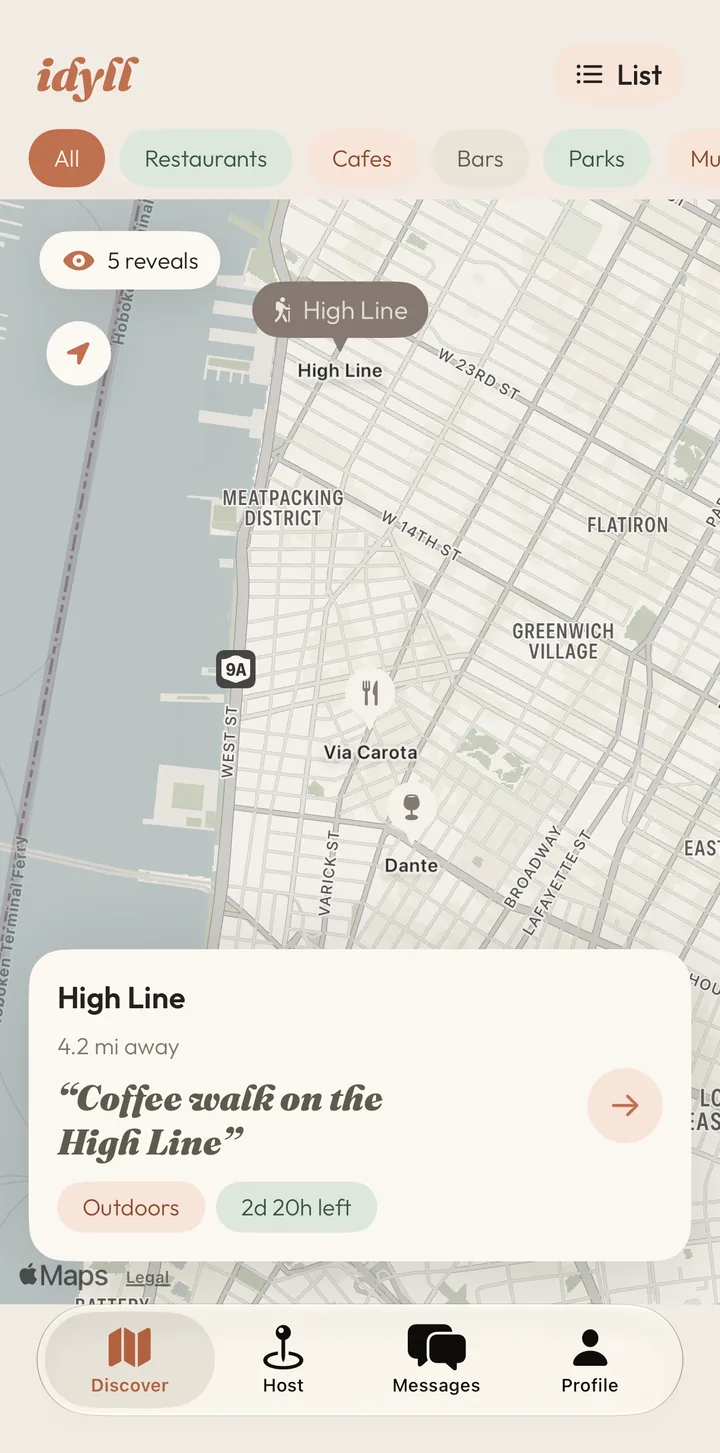
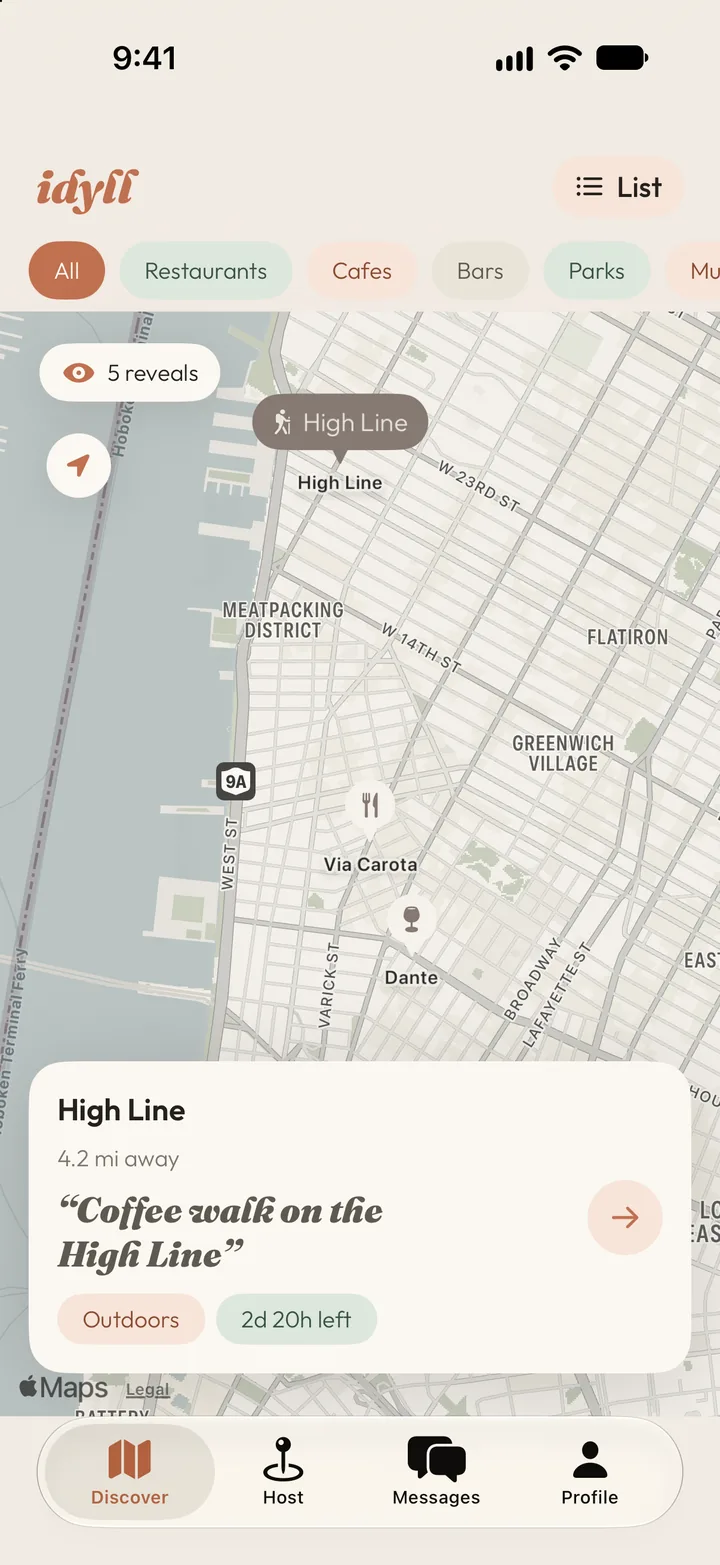
Text or Email sign-up, full screenshots, cleaner headline, no step numbers

diff --git a/index.html b/index.html
@@ -16,7 +16,8 @@
 html{-webkit-text-size-adjust:100%}
 body{margin:0;background:var(--ground);color:var(--ink);font-family:var(--ui);font-size:17px;line-height:1.55;-webkit-font-smoothing:antialiased}
 .wrap{max-width:1080px;margin:0 auto;padding-left:max(20px,env(safe-area-inset-left,0px));padding-right:max(20px,env(safe-area-inset-right,0px))}
-h1,h2,h3{text-wrap:balance;margin:0}
+h1,h2,h3{text-wrap:balance;margin:0;font-variant-ligatures:none}
+.hero h1,.sec h2,.again h2{font-variation-settings:'opsz' 48}
 p{margin:0}
 .eyebrow{font-size:13px;letter-spacing:.12em;text-transform:uppercase;color:var(--ink-body);font-weight:500}
 
@@ -34,23 +35,29 @@ p{margin:0}
 form.capture{margin-top:28px;display:flex;flex-direction:column;gap:14px;max-width:460px}
 .field{display:flex;flex-direction:column;gap:6px}
 .field-label{font-size:14px;font-weight:500;color:var(--ink-body);padding-left:20px}
-form.capture input[type=email]{width:100%;font:inherit;font-size:16px;height:54px;padding:0 20px;border-radius:999px;border:1.5px solid var(--hair);background:var(--card);color:var(--ink);transition:border-color .15s,box-shadow .15s}
-form.capture input[type=email]::placeholder{color:#8A847A}
-form.capture input[type=email]:focus{outline:none;border-color:var(--accent-strong);box-shadow:0 0 0 4px var(--accent-soft)}
+form.capture input[type=email],form.capture input[type=tel]{width:100%;font:inherit;font-size:16px;height:54px;padding:0 20px;border-radius:999px;border:1.5px solid var(--hair);background:var(--card);color:var(--ink);transition:border-color .15s,box-shadow .15s}
+form.capture input::placeholder{color:#7A7369}
+form.capture input[type=email]:focus,form.capture input[type=tel]:focus{outline:none;border-color:var(--accent-strong);box-shadow:0 0 0 4px var(--accent-soft)}
 form.capture input[aria-invalid=true]{border-color:var(--error)}
 
 .opts{border:0;margin:0;padding:0;min-width:0}
 .opts legend{font-size:14px;font-weight:500;color:var(--ink-body);padding:0 0 6px 20px}
 .opts-row{display:flex;gap:8px}
 .opt{position:relative;flex:1}
-.opt:last-child{flex:1.3}
+.gender .opt:last-child{flex:1.3}
 .opt input{position:absolute;opacity:0;width:1px;height:1px}
 .opt span{display:flex;align-items:center;justify-content:center;height:46px;border-radius:999px;border:1.5px solid var(--hair);background:var(--card);color:var(--ink);font-size:15px;cursor:pointer;user-select:none;transition:background .15s,border-color .15s,color .15s,transform .12s}
 .opt span:active{transform:scale(.97)}
 .opt input:checked+span{background:var(--accent-strong);border-color:var(--accent-strong);color:#fff}
 .opt input:focus-visible+span{box-shadow:0 0 0 4px var(--accent-soft)}
-.js form.capture .opts{display:none}
-.js form.capture.engaged .opts{display:block;animation:fadein .25s ease both}
+.js form.capture .opts.gender{display:none}
+.js form.capture.engaged .opts.gender{display:block;animation:fadein .25s ease both}
+.panel{display:flex;flex-direction:column;gap:12px}
+.panel[hidden]{display:none}
+.hint{font-size:14px;color:var(--ink-body);padding-left:20px}
+.sms{display:flex;gap:12px;align-items:flex-start;font-size:14px;line-height:1.5;color:var(--ink-body);padding-left:4px;cursor:pointer}
+.sms input{width:22px;height:22px;margin:1px 0 0;accent-color:var(--accent-strong);flex:none}
+.sms a{color:var(--accent-text)}
 
 .age{display:flex;gap:12px;align-items:center;min-height:44px;font-size:16px;padding-left:4px;cursor:pointer}
 .age input{width:22px;height:22px;margin:0;accent-color:var(--accent-strong);flex:none}
@@ -65,17 +72,17 @@ form.capture input[aria-invalid=true]{border-color:var(--error)}
 .err:empty{display:none}
 
 .shot{margin:0;border-radius:30px;overflow:hidden;background:var(--card);border:1px solid var(--hair);box-shadow:0 30px 60px -28px rgba(36,33,28,.32)}
-.shot img{display:block;width:100%;height:auto;will-change:transform}
-.hero .shot{width:min(340px,100%);margin-inline:auto}
+.shot img{display:block;width:100%;height:auto}
+.drift{will-change:transform}
+.hero .drift{width:min(340px,100%);margin-inline:auto}
 
 .sec{padding-block:64px}
 .sec-head{max-width:60ch;margin-bottom:40px}
 .sec h2{font-family:var(--display);font-weight:500;font-size:clamp(30px,4vw,42px);line-height:1.1;letter-spacing:-.01em;margin-top:8px}
 .steps{display:grid;grid-template-columns:repeat(3,1fr);gap:32px}
 .step{display:flex;flex-direction:column;gap:22px}
-.step .shot{width:min(260px,100%)}
+.step .drift{width:min(260px,100%)}
 .step h3{font-family:var(--display);font-weight:500;font-size:25px;line-height:1.2}
-.step .n{color:var(--accent-strong);margin-right:8px}
 .step p{color:var(--ink-body);font-size:16px;max-width:32ch;margin-top:6px}
 
 .calm{background:var(--card);border-radius:28px;padding:48px}
@@ -124,7 +131,7 @@ form.capture input[aria-invalid=true]{border-color:var(--error)}
 @media (max-width:760px){
   .hero .wrap{grid-template-columns:1fr;gap:44px;padding-block:12px 56px}
   .hero form.capture{max-width:none}
-  .hero .shot{width:min(320px,88%)}
+  .hero .drift{width:min(320px,88%)}
   .calm{padding:32px 22px}
   .again .btn{width:100%}
 }
@@ -141,11 +148,28 @@ form.capture input[aria-invalid=true]{border-color:var(--error)}
     <h1>The date <em>comes first.</em></h1>
     <p class="lede">Post a date, not a profile. Someone nearby requests to join, you pick, and then you meet the person.</p>
     <form class="capture" id="join" method="POST" action="/subscribe" novalidate>
-      <div class="field">
-        <label class="field-label" for="email">Email</label>
-        <input id="email" name="email" type="email" autocomplete="email" inputmode="email" placeholder="you@email.com" required aria-describedby="join-err">
+      <fieldset class="opts channel">
+        <legend>Send my download link by</legend>
+        <div class="opts-row">
+          <label class="opt"><input type="radio" name="channel" value="text" checked><span>Text</span></label>
+          <label class="opt"><input type="radio" name="channel" value="email"><span>Email</span></label>
+        </div>
+      </fieldset>
+      <div class="panel" data-channel="text">
+        <div class="field">
+          <label class="field-label" for="phone">Mobile number</label>
+          <input id="phone" name="phone" type="tel" autocomplete="tel" inputmode="tel" placeholder="(212) 555-0134" aria-describedby="phone-hint join-err">
+          <span class="hint" id="phone-hint">US numbers only.</span>
+        </div>
+        <label class="sms"><input type="checkbox" name="sms_consent" value="yes"> <span>Text me when Idyll launches. By checking this box you agree to receive one launch text and up to 2 reminder texts from Idyll Social LLC at the number provided. Consent is not a condition of any purchase. Msg &amp; data rates may apply. Reply STOP to opt out, HELP for help. See our <a href="/privacy">Privacy Policy</a>.</span></label>
       </div>
-      <fieldset class="opts">
+      <div class="panel" data-channel="email">
+        <div class="field">
+          <label class="field-label" for="email">Email</label>
+          <input id="email" name="email" type="email" autocomplete="email" inputmode="email" placeholder="you@email.com" aria-describedby="join-err">
+        </div>
+      </div>
+      <fieldset class="opts gender">
         <legend>I am (optional)</legend>
         <div class="opts-row">
           <label class="opt"><input type="radio" name="gender" value="woman"><span>Woman</span></label>
@@ -159,7 +183,7 @@ form.capture input[aria-invalid=true]{border-color:var(--error)}
       <p class="fine">First month of Idyll+ free at launch. iPhone only.</p>
     </form>
   </div>
-  <figure class="shot"><img src="/images/discover.webp" width="720" height="1453" alt="Idyll's Discover map of lower Manhattan, showing a date spot for a coffee walk on the High Line." fetchpriority="high"></figure>
+  <div class="drift"><figure class="shot"><img src="/images/discover.webp" width="720" height="1565" alt="Idyll's Discover map of lower Manhattan, showing a date spot for a coffee walk on the High Line." fetchpriority="high"></figure></div>
 </div></section>
 
 <section class="sec"><div class="wrap">
@@ -169,16 +193,16 @@ form.capture input[aria-invalid=true]{border-color:var(--error)}
   </div>
   <div class="steps">
     <div class="step reveal">
-      <figure class="shot"><img src="/images/hosting.webp" width="720" height="1453" alt="The Hosting screen, with one active spot and one request." loading="lazy"></figure>
-      <div><h3><span class="n">1</span>Host a spot</h3><p>Pick a public place, write the idea, and post it. A spot stays up for 72 hours and takes up to 7 requests.</p></div>
+      <div class="drift"><figure class="shot"><img src="/images/hosting.webp" width="720" height="1565" alt="The Hosting screen, with one active spot and one request." loading="lazy"></figure></div>
+      <div><h3>Host a spot</h3><p>Pick a public place, write the idea, and post it. A spot stays up for 72 hours and takes up to 7 requests.</p></div>
     </div>
     <div class="step reveal">
-      <figure class="shot"><img src="/images/date-spot.webp" width="720" height="1453" alt="A date spot with the host's photos hidden, showing only the plan and a few basics." loading="lazy"></figure>
-      <div><h3><span class="n">2</span>Request to join</h3><p>See the plan and a few basics. Photos stay hidden until you use a reveal. If it sounds like your kind of day, send a request.</p></div>
+      <div class="drift"><figure class="shot"><img src="/images/date-spot.webp" width="720" height="1565" alt="A date spot with the host's photos hidden, showing only the plan and a few basics." loading="lazy"></figure></div>
+      <div><h3>Request to join</h3><p>See the plan and a few basics. Photos stay hidden until you use a reveal. If it sounds like your kind of day, send a request.</p></div>
     </div>
     <div class="step reveal">
-      <figure class="shot"><img src="/images/messages.webp" width="720" height="1453" alt="A chat that has just opened, confirming the time and place for the walk." loading="lazy"></figure>
-      <div><h3><span class="n">3</span>The host chooses</h3><p>The host picks one request. The spot closes, both profiles open up, and a chat starts with the plan already made.</p></div>
+      <div class="drift"><figure class="shot"><img src="/images/messages.webp" width="720" height="1565" alt="A chat that has just opened, confirming the time and place for the walk." loading="lazy"></figure></div>
+      <div><h3>The host chooses</h3><p>The host picks one request. The spot closes, both profiles open up, and a chat starts with the plan already made.</p></div>
     </div>
   </div>
 </div></section>
@@ -202,7 +226,7 @@ form.capture input[aria-invalid=true]{border-color:var(--error)}
 <section class="again"><div class="wrap reveal">
   <p class="eyebrow">Launching in New York City</p>
   <h2>Meet the plan before the person.</h2>
-  <a class="btn" href="#join" id="to-join">Join the NYC waitlist</a>
+  <a class="btn" href="#" id="to-top">Join the NYC waitlist</a>
   <p class="fine">Free to use. First month of Idyll+ free at launch.</p>
 </div></section>
 </main>
@@ -217,30 +241,54 @@ form.capture input[aria-invalid=true]{border-color:var(--error)}
 (function () {
   var form = document.getElementById('join');
   var email = form.querySelector('[name=email]');
+  var phone = form.querySelector('[name=phone]');
+  var consent = form.querySelector('[name=sms_consent]');
   var age = form.querySelector('[name=age18]');
   var err = document.getElementById('join-err');
   var btn = form.querySelector('button[type=submit]');
+  var panels = form.querySelectorAll('.panel');
+
+  function channel() { return form.querySelector('[name=channel]:checked').value; }
+  function showChannel() {
+    var c = channel();
+    panels.forEach(function (p) {
+      var on = p.getAttribute('data-channel') === c;
+      p.hidden = !on;
+      p.querySelectorAll('input').forEach(function (i) { i.disabled = !on; });
+    });
+  }
+  form.querySelectorAll('[name=channel]').forEach(function (r) {
+    r.addEventListener('change', function () { showChannel(); clearErr(); engage(); });
+  });
+  showChannel();
 
   function engage() { form.classList.add('engaged'); }
-  email.addEventListener('focus', engage);
-  email.addEventListener('input', engage);
-  if (email.value) engage();
+  [email, phone].forEach(function (i) {
+    i.addEventListener('focus', engage);
+    i.addEventListener('input', engage);
+    if (i.value) engage();
+  });
 
-  function clearErr() { err.textContent = ''; email.removeAttribute('aria-invalid'); }
-  email.addEventListener('input', clearErr);
-  age.addEventListener('change', clearErr);
+  function clearErr() { err.textContent = ''; email.removeAttribute('aria-invalid'); phone.removeAttribute('aria-invalid'); }
+  [email, phone].forEach(function (i) { i.addEventListener('input', clearErr); });
+  [consent, age].forEach(function (i) { i.addEventListener('change', clearErr); });
 
   if (/[?&]err=1/.test(location.search)) {
     engage();
-    err.textContent = "That didn't go through. Check your email and confirm you're 18 or older.";
+    err.textContent = "That didn't go through. Check your number or email, and confirm you're 18 or older.";
   }
 
   form.addEventListener('submit', function (e) {
-    var v = email.value.trim();
-    var msg = '';
-    if (!/^[^\s@]+@[^\s@]+\.[^\s@]+$/.test(v)) { msg = 'Enter your email address.'; email.setAttribute('aria-invalid', 'true'); }
-    else if (!age.checked) { msg = "Confirm you're 18 or older."; }
-    if (msg) { e.preventDefault(); err.textContent = msg; (msg.indexOf('email') > -1 ? email : age).focus(); return; }
+    var msg = '', focusOn = null;
+    if (channel() === 'text') {
+      var d = phone.value.replace(/\D/g, '');
+      if (!(d.length === 10 || (d.length === 11 && d[0] === '1'))) { msg = 'Enter a US mobile number.'; focusOn = phone; phone.setAttribute('aria-invalid', 'true'); }
+      else if (!consent.checked) { msg = 'Tick the box so we can text you.'; focusOn = consent; }
+    } else if (!/^[^\s@]+@[^\s@]+\.[^\s@]+$/.test(email.value.trim())) {
+      msg = 'Enter your email address.'; focusOn = email; email.setAttribute('aria-invalid', 'true');
+    }
+    if (!msg && !age.checked) { msg = "Confirm you're 18 or older."; focusOn = age; }
+    if (msg) { e.preventDefault(); err.textContent = msg; focusOn.focus(); return; }
     if (btn.getAttribute('aria-busy') === 'true') { e.preventDefault(); return; }
     btn.setAttribute('aria-busy', 'true');
     btn.textContent = 'Joining…';
@@ -251,11 +299,12 @@ form.capture input[aria-invalid=true]{border-color:var(--error)}
     btn.textContent = 'Join the NYC waitlist';
   });
 
-  document.getElementById('to-join').addEventListener('click', function () {
-    setTimeout(function () { email.focus({ preventScroll: true }); }, 450);
-  });
-
   var still = window.matchMedia('(prefers-reduced-motion: reduce)').matches;
+
+  document.getElementById('to-top').addEventListener('click', function (e) {
+    e.preventDefault();
+    window.scrollTo({ top: 0, behavior: still ? 'auto' : 'smooth' });
+  });
   var items = document.querySelectorAll('.reveal');
   if (still || !('IntersectionObserver' in window)) {
     items.forEach(function (el) { el.classList.add('in'); });
@@ -269,15 +318,15 @@ form.capture input[aria-invalid=true]{border-color:var(--error)}
   }
 
   if (!still) {
-    var shots = document.querySelectorAll('.shot img');
+    var shots = document.querySelectorAll('.drift');
     var ticking = false;
     function drift() {
       var vh = window.innerHeight;
       shots.forEach(function (img) {
-        var r = img.parentNode.getBoundingClientRect();
+        var r = img.getBoundingClientRect();
         if (r.bottom < 0 || r.top > vh) return;
         var t = ((r.top + r.height / 2) - vh / 2) / vh;
-        img.style.transform = 'translateY(' + (t * -14).toFixed(1) + 'px) scale(1.03)';
+        img.style.transform = 'translateY(' + (t * -14).toFixed(1) + 'px)';
       });
       ticking = false;
     }
